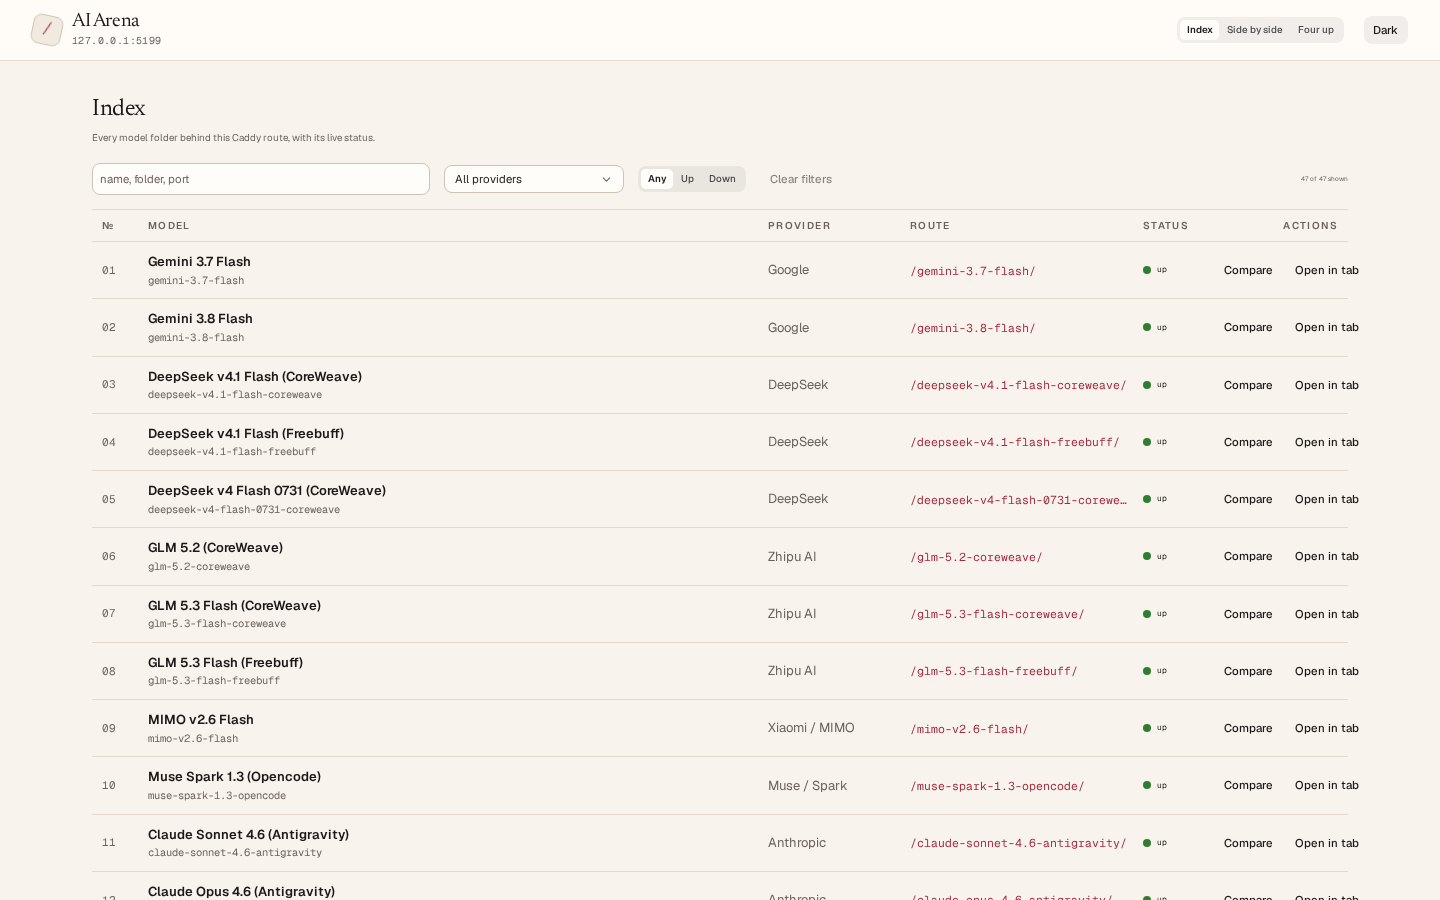
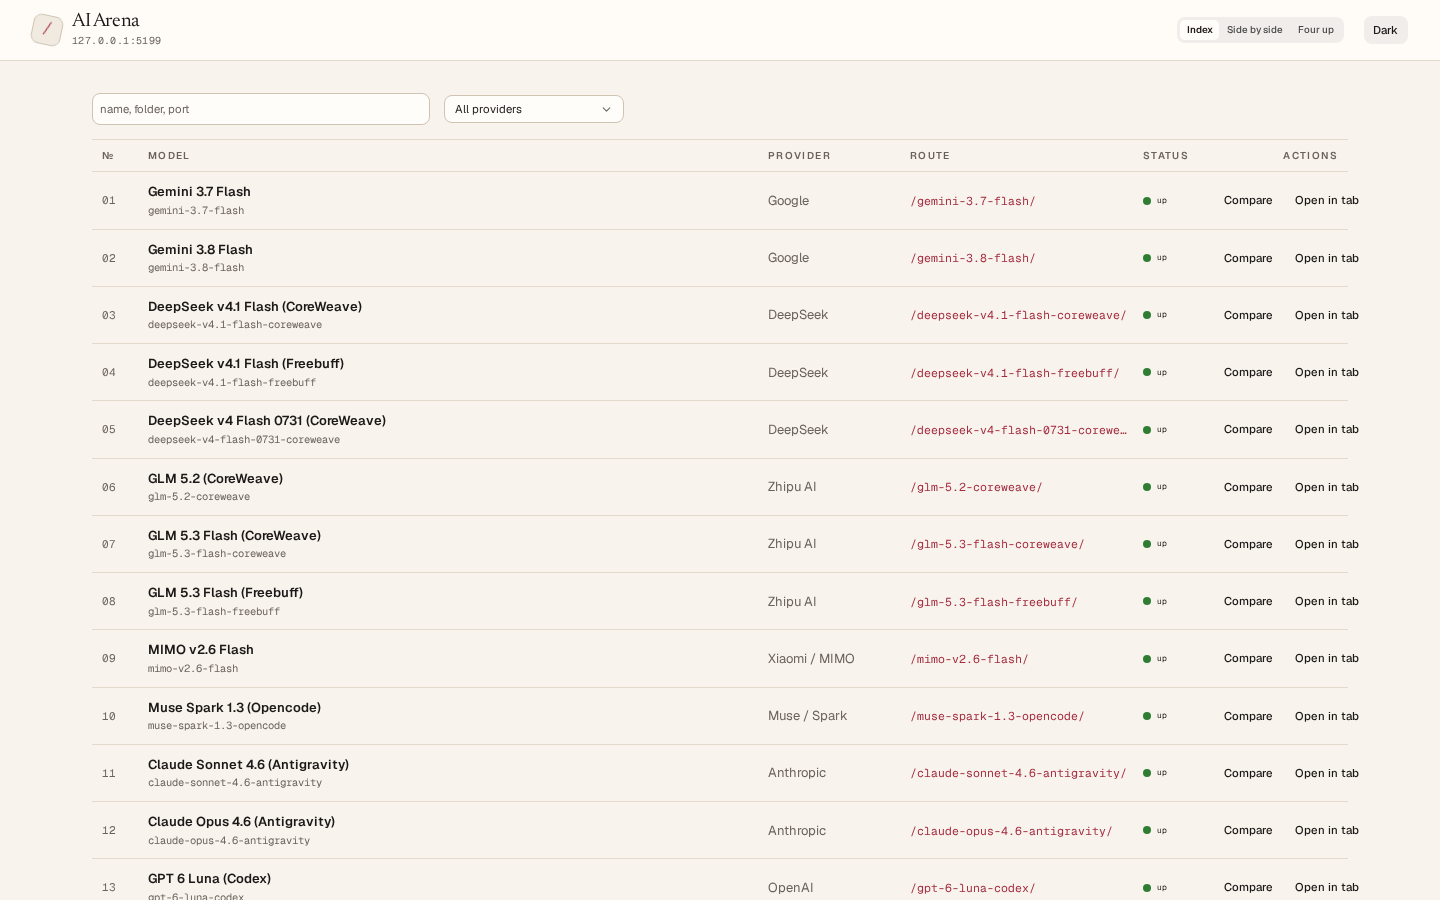
Aggregator: trim the index chrome
Drop the Index heading and its note, the Any/Up/Down status filter, the
Clear filters button and the shown-this-many counter. Search and provider are
the only filters left, so the roster starts right under them.

diff --git a/aggregator/src/views/IndexView.tsx b/aggregator/src/views/IndexView.tsx
@@ -1,5 +1,4 @@
 import { Button } from '@astryxdesign/core/Button';
-import { SegmentedControl, SegmentedControlItem } from '@astryxdesign/core/SegmentedControl';
 import { Selector } from '@astryxdesign/core/Selector';
 import { Text } from '@astryxdesign/core/Text';
 import { TextInput } from '@astryxdesign/core/TextInput';
@@ -30,10 +29,7 @@ export function IndexView({
 }: IndexViewProps) {
   const query = filters.q.trim().toLowerCase();
   const rows = models.filter((model) => {
-    const t = telemetry[model.id];
     if (filters.tag !== 'ALL' && model.tag !== filters.tag) return false;
-    if (filters.status === 'UP' && !t?.up) return false;
-    if (filters.status === 'DOWN' && t?.up) return false;
     if (!query) return true;
     return [model.name, model.id, model.tag, String(model.port)].some((field) =>
       String(field).toLowerCase().includes(query),
@@ -45,19 +41,8 @@ export function IndexView({
     { value: 'ALL', label: 'All providers' },
     ...tags.map((tag) => ({ value: tag, label: tag })),
   ];
-  const hasFilter = query !== '' || filters.tag !== 'ALL' || filters.status !== 'ALL';
-
   return (
-    <section className="view" aria-labelledby="index-title">
-      <header className="view__head">
-        <Text as="h2" size="3xl" weight="normal" className="display">
-          <span id="index-title">Index</span>
-        </Text>
-        <Text size="sm" color="secondary">
-          Every model folder behind this Caddy route, with its live status.
-        </Text>
-      </header>
-
+    <section className="view" aria-label="Index">
       <div className="toolbar">
         <div className="toolbar__search">
           <TextInput
@@ -83,30 +68,6 @@ export function IndexView({
           />
         </div>
 
-        <SegmentedControl
-          label="Status"
-          value={filters.status}
-          onChange={(value: string) =>
-            onFilters({ ...filters, status: value as Filters['status'] })
-          }
-          size="sm"
-        >
-          <SegmentedControlItem value="ALL" label="Any" />
-          <SegmentedControlItem value="UP" label="Up" />
-          <SegmentedControlItem value="DOWN" label="Down" />
-        </SegmentedControl>
-
-        <Button
-          label="Clear filters"
-          size="sm"
-          variant="ghost"
-          isDisabled={!hasFilter}
-          onClick={() => onFilters({ q: '', tag: 'ALL', status: 'ALL' })}
-        />
-
-        <Text size="2xs" color="secondary" className="toolbar__count">
-          {load === 'ready' && models.length > 0 ? `${rows.length} of ${models.length} shown` : ''}
-        </Text>
       </div>
 
       {load === 'loading' ? (
@@ -160,7 +121,7 @@ export function IndexView({
             <Button
               label="Clear filters"
               size="sm"
-              onClick={() => onFilters({ q: '', tag: 'ALL', status: 'ALL' })}
+              onClick={() => onFilters({ q: '', tag: 'ALL' })}
             />
           }
         />

diff --git a/aggregator/src/App.tsx b/aggregator/src/App.tsx
@@ -65,7 +65,7 @@ export function App() {
   const [loadError, setLoadError] = useState('');
   const [telemetry, setTelemetry] = useState<Record<string, Telemetry>>({});
   const [view, setView] = useState<View>(initialLocation.view);
-  const [filters, setFilters] = useState<Filters>({ q: '', tag: 'ALL', status: 'ALL' });
+  const [filters, setFilters] = useState<Filters>({ q: '', tag: 'ALL' });
   const [width, setWidth] = useState<FrameWidth>(initialLocation.width);
   const [mode, setMode] = useState<'light' | 'dark'>(readMode);
   const [toast, setToast] = useState<string | null>(null);
@@ -182,7 +182,7 @@ export function App() {
       if (isTyping(event)) {
         if (event.key === 'Escape') {
           (event.target as HTMLElement).blur();
-          setFilters({ q: '', tag: 'ALL', status: 'ALL' });
+          setFilters({ q: '', tag: 'ALL' });
         }
         return;
       }
@@ -202,7 +202,7 @@ export function App() {
       } else if (event.key === 'r' || event.key === 'R') {
         void recheck();
       } else if (event.key === 'Escape') {
-        setFilters({ q: '', tag: 'ALL', status: 'ALL' });
+        setFilters({ q: '', tag: 'ALL' });
       }
     };
     window.addEventListener('keydown', onKeyDown);

diff --git a/aggregator/src/console.css b/aggregator/src/console.css
@@ -161,7 +161,6 @@ main {
 
 .toolbar__search { flex: 0 1 26rem; min-width: 180px; }
 .toolbar__provider { flex: 0 1 180px; min-width: 150px; }
-.toolbar__count { margin-left: auto; }
 
 /* Roster ------------------------------------------------------------------ */
 

diff --git a/aggregator/src/lib/models.ts b/aggregator/src/lib/models.ts
@@ -18,7 +18,6 @@ export type LoadState = "loading" | "ready" | "error";
 export interface Filters {
   q: string;
   tag: string;
-  status: "ALL" | "UP" | "DOWN";
 }
 
 export type FrameWidth = "desktop" | "tablet" | "mobile";

diff --git a/DESIGN.md b/DESIGN.md
@@ -160,6 +160,9 @@ Button, Badge, StatusDot). What changes for the sections above:
   is a link.
 - **No footer chrome**: shortcut hints live in tooltips and the README, not in a
   permanent bar under the content.
+- **Index chrome**: no page heading, no status filter, no result counter. The
+  search field and the provider selector are the only filters; the roster itself
+  is the answer.
 
 The token table in §4 and the type table in §5 keep their intent; the shipped
 values now live in `aggregator/src/theme.ts` and `aggregator/src/console.css`.
